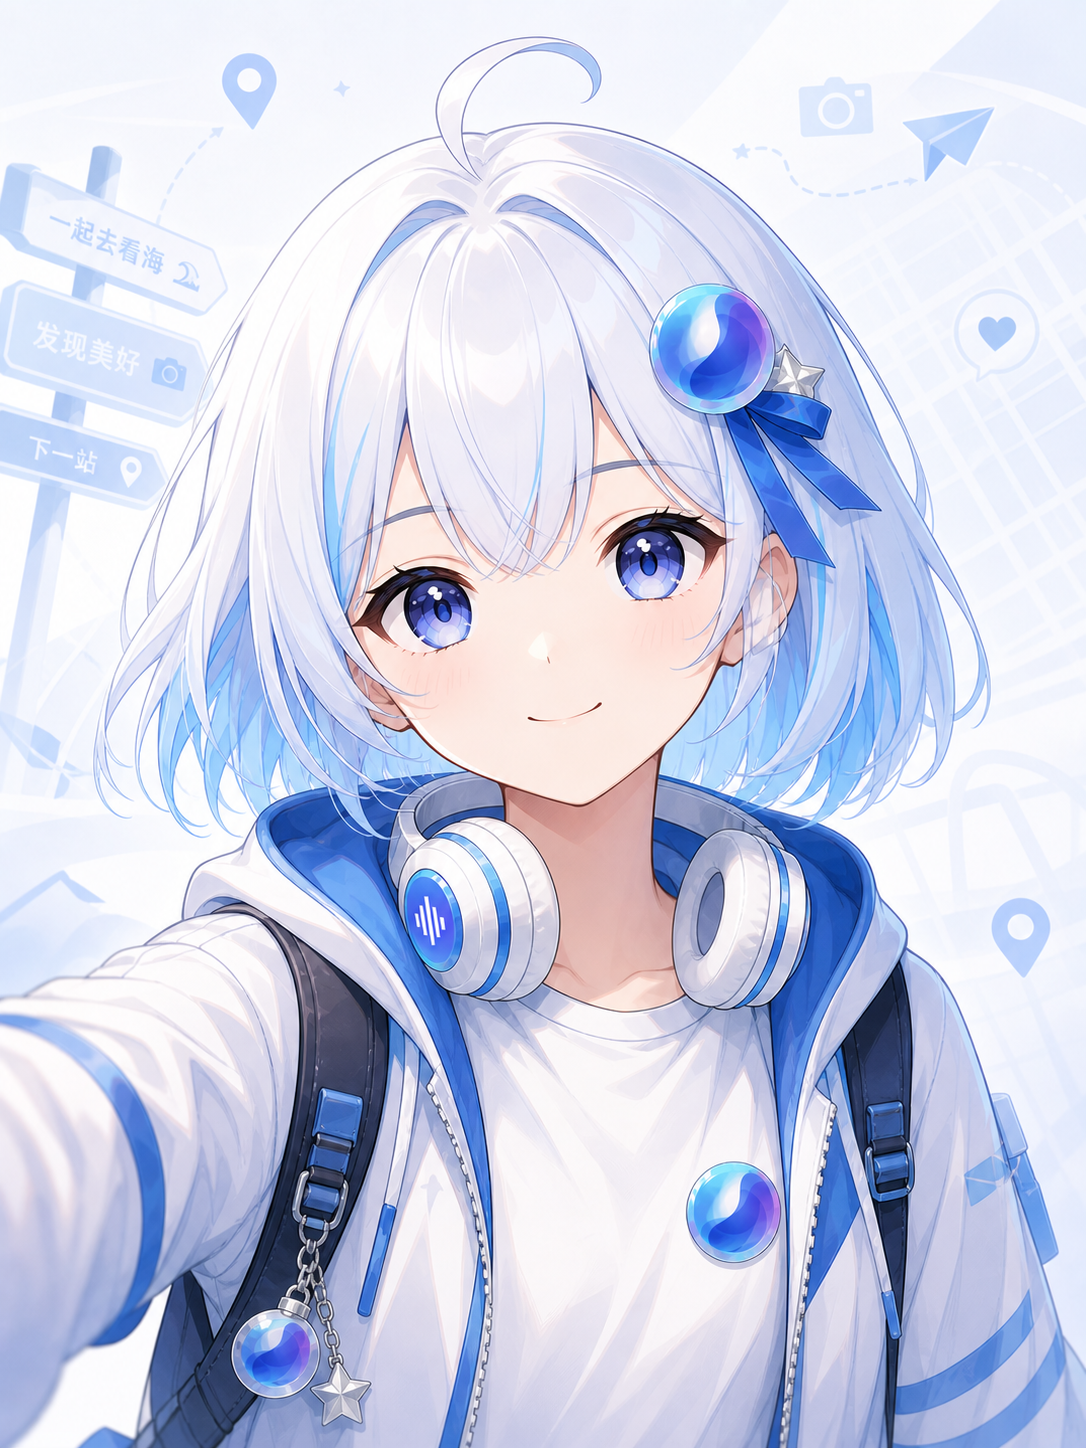
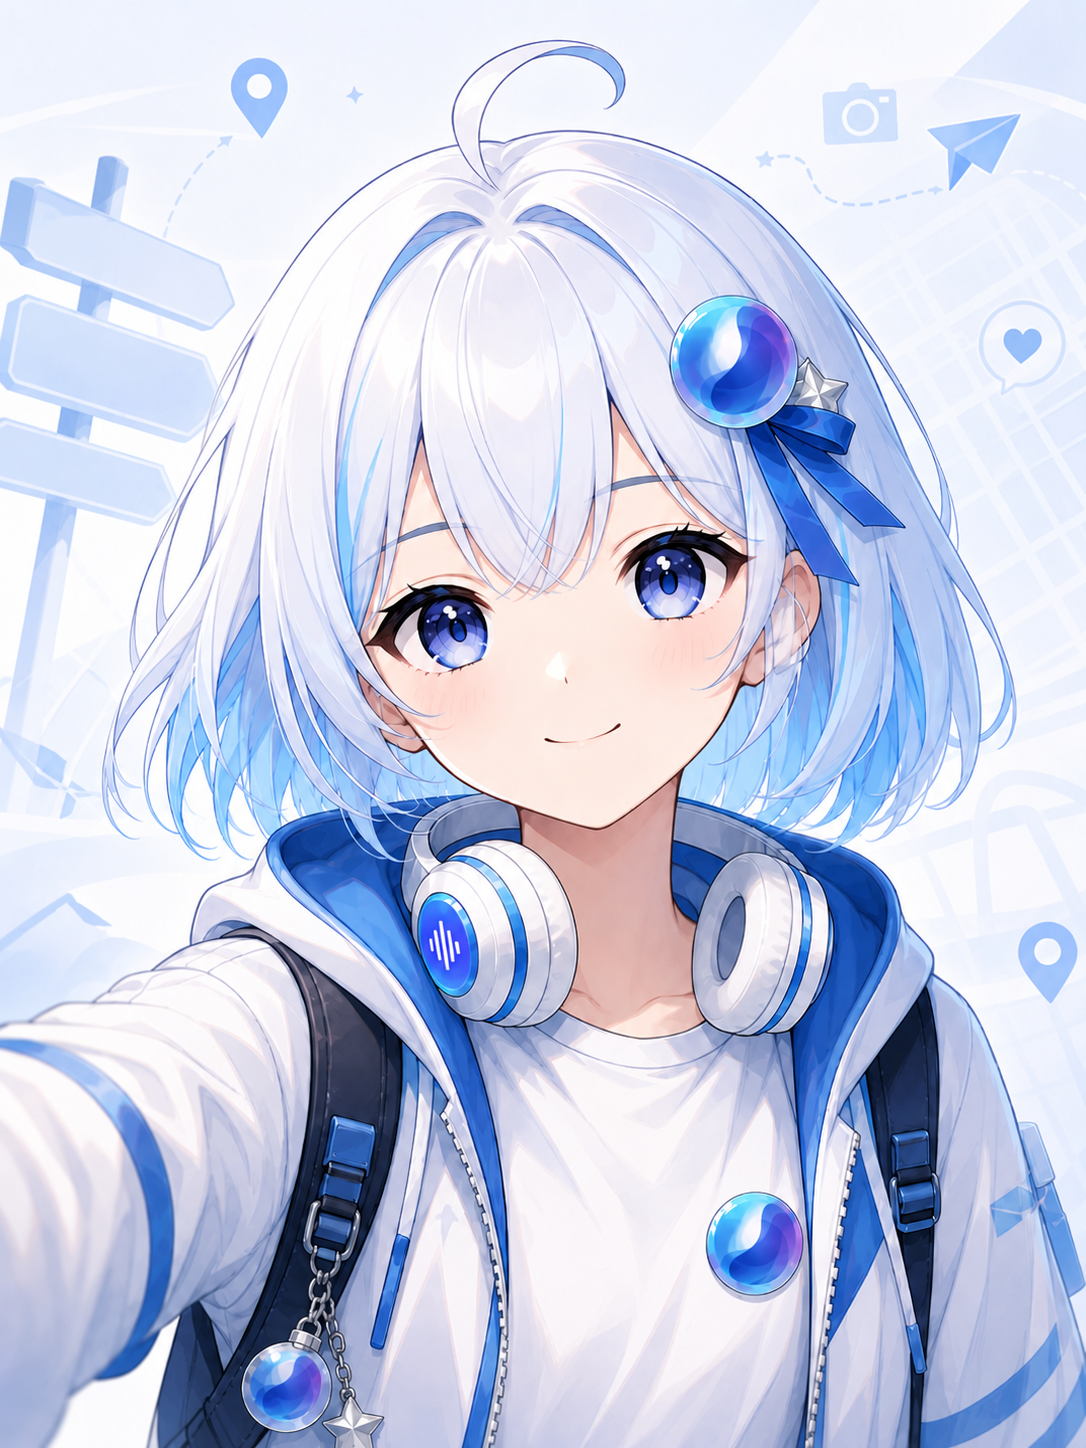
fix home navigation touch targets

diff --git a/apps/mobile/lib/features/home/home_page.dart b/apps/mobile/lib/features/home/home_page.dart
@@ -142,6 +142,7 @@ class _HomePageState extends State<HomePage>
     await showModalBottomSheet<void>(
       context: context,
       isScrollControlled: true,
+      useRootNavigator: true,
       useSafeArea: true,
       backgroundColor: Colors.transparent,
       barrierColor: const Color(0xFF06224E).withOpacity(0.28),
@@ -208,7 +209,7 @@ class _HomePageState extends State<HomePage>
     setState(() {
       _panelHeightRatio = (_panelHeightRatio - delta / viewportHeight).clamp(
         0.16,
-        0.78,
+        0.72,
       );
     });
   }
@@ -251,10 +252,15 @@ class _HomePageState extends State<HomePage>
             final actionsTop = topSafe + 36;
             final tripTop = topSafe + 82;
             final purePanelTop = topSafe + 128;
+            final statusDrawerTop = tripTop + 18;
+            final companionPanelTopLimit = statusDrawerTop + 140;
             final minPanelHeight = compact ? 166.0 : 178.0;
             final maxPanelHeight = math.max(
               minPanelHeight,
-              h - purePanelTop - 10 - keyboardInset,
+              h -
+                  (_isPureMode ? purePanelTop : companionPanelTopLimit) -
+                  10 -
+                  keyboardInset,
             );
             final ratio = _panelHeightRatio;
             final panelHeight = (h * ratio)
@@ -263,8 +269,8 @@ class _HomePageState extends State<HomePage>
             final effectivePanelHeight = keyboardVisible
                 ? math.min(panelHeight, compact ? 230.0 : 240.0)
                 : panelHeight;
-            final avatarHeight = h * (compact ? 0.52 : 0.60);
-            final avatarBottom = effectivePanelHeight * (compact ? 0.40 : 0.46);
+            final avatarHeight = h * (compact ? 0.54 : 0.62);
+            final avatarBottom = compact ? 46.0 : 58.0;
 
             final content = Stack(
               children: [
@@ -296,39 +302,6 @@ class _HomePageState extends State<HomePage>
                       opacity: _isPureMode ? 0.10 : 0,
                       child: Container(color: Colors.white),
                     ),
-                  ),
-                ),
-
-                // ── 顶部主操作：模式、消息、历史 ──
-                Positioned(
-                  top: actionsTop,
-                  left: controlsLeft,
-                  right: sidePadding,
-                  child: Row(
-                    children: [
-                      _PureModeButton(
-                        isPureMode: _isPureMode,
-                        onTap: _togglePureMode,
-                        compact: compact,
-                        width: controlWidth,
-                      ),
-                      const Spacer(),
-                      GestureDetector(
-                        onTap: () => context.push('/reminder'),
-                        child: const _TopIconPill(
-                          icon: Icons.notifications_none_rounded,
-                          label: '消息',
-                        ),
-                      ),
-                      const SizedBox(width: 8),
-                      GestureDetector(
-                        onTap: _showChatHistorySheet,
-                        child: const _TopIconPill(
-                          icon: Icons.history_rounded,
-                          label: '聊天历史',
-                        ),
-                      ),
-                    ],
                   ),
                 ),
 
@@ -409,7 +382,7 @@ class _HomePageState extends State<HomePage>
 
                 // ── 右侧蓝小心状态抽屉 ──
                 Positioned(
-                  top: tripTop + 18,
+                  top: statusDrawerTop,
                   right: 0,
                   child: _ModeExitBubble(
                     hidden: _isPureMode,
@@ -447,6 +420,35 @@ class _HomePageState extends State<HomePage>
                     onOpenTrip: () => context.go('/trip'),
                     onOpenMemory: () => context.go('/memory'),
                     onOpenReview: () => context.go('/review'),
+                  ),
+                ),
+
+                // ── 顶部主操作：模式、消息、历史。放在最后，保证触控优先级最高。 ──
+                Positioned(
+                  top: actionsTop,
+                  left: controlsLeft,
+                  right: sidePadding,
+                  child: Row(
+                    children: [
+                      _PureModeButton(
+                        isPureMode: _isPureMode,
+                        onTap: _togglePureMode,
+                        compact: compact,
+                        width: controlWidth,
+                      ),
+                      const Spacer(),
+                      _TopIconPill(
+                        icon: Icons.notifications_none_rounded,
+                        label: '消息',
+                        onTap: () => context.push('/reminder'),
+                      ),
+                      const SizedBox(width: 8),
+                      _TopIconPill(
+                        icon: Icons.history_rounded,
+                        label: '聊天历史',
+                        onTap: _showChatHistorySheet,
+                      ),
+                    ],
                   ),
                 ),
               ],
@@ -530,10 +532,15 @@ class _PureModeButton extends StatelessWidget {
 }
 
 class _TopIconPill extends StatelessWidget {
-  const _TopIconPill({required this.icon, required this.label});
+  const _TopIconPill({
+    required this.icon,
+    required this.label,
+    required this.onTap,
+  });
 
   final IconData icon;
   final String label;
+  final VoidCallback onTap;
 
   @override
   Widget build(BuildContext context) {
@@ -542,11 +549,21 @@ class _TopIconPill extends StatelessWidget {
       child: Semantics(
         button: true,
         label: label,
-        child: GlassBox(
-          width: 44,
-          borderRadius: BorderRadius.circular(22),
-          padding: const EdgeInsets.symmetric(vertical: 11),
-          child: Icon(icon, color: Colors.white, size: 20),
+        child: GestureDetector(
+          onTap: onTap,
+          behavior: HitTestBehavior.opaque,
+          child: SizedBox(
+            width: 52,
+            height: 52,
+            child: Center(
+              child: GlassBox(
+                width: 44,
+                borderRadius: BorderRadius.circular(22),
+                padding: const EdgeInsets.symmetric(vertical: 11),
+                child: Icon(icon, color: Colors.white, size: 20),
+              ),
+            ),
+          ),
         ),
       ),
     );
@@ -784,20 +801,26 @@ class _StatusDrawer extends StatelessWidget {
       return GestureDetector(
         onTap: onToggle,
         behavior: HitTestBehavior.opaque,
-        child: GlassBox(
-          width: 20,
-          height: 54,
-          borderRadius: const BorderRadius.horizontal(
-            left: Radius.circular(16),
-          ),
-          opacity: 0.22,
-          borderColor: Colors.white.withOpacity(0.70),
-          padding: EdgeInsets.zero,
-          child: const Center(
-            child: Icon(
-              Icons.keyboard_arrow_left_rounded,
-              color: Color(0xFF215ECA),
-              size: 18,
+        child: SizedBox(
+          width: 124,
+          child: GlassBox(
+            height: 54,
+            borderRadius: const BorderRadius.horizontal(
+              left: Radius.circular(24),
+            ),
+            opacity: 0.22,
+            borderColor: Colors.white.withOpacity(0.70),
+            padding: EdgeInsets.zero,
+            child: const Align(
+              alignment: Alignment.centerLeft,
+              child: Padding(
+                padding: EdgeInsets.only(left: 3),
+                child: Icon(
+                  Icons.keyboard_arrow_left_rounded,
+                  color: Color(0xFF215ECA),
+                  size: 19,
+                ),
+              ),
             ),
           ),
         ),

diff --git a/apps/mobile/lib/core/router/app_router.dart b/apps/mobile/lib/core/router/app_router.dart
@@ -124,7 +124,7 @@ class _ScaffoldWithNavState extends State<ScaffoldWithNav> {
   @override
   Widget build(BuildContext context) {
     final metrics = context.responsive;
-    final navHeight = _collapsed ? 28.0 : metrics.bottomNavHeight;
+    final navHeight = _collapsed ? 36.0 : metrics.bottomNavHeight;
 
     return Scaffold(
       backgroundColor: Colors.transparent,
@@ -138,8 +138,8 @@ class _ScaffoldWithNavState extends State<ScaffoldWithNav> {
         decoration: BoxDecoration(
           gradient: LinearGradient(
             colors: [
-              Colors.white.withOpacity(_collapsed ? 0.20 : 0.72),
-              const Color(0xFFDCEEFF).withOpacity(_collapsed ? 0.36 : 0.85),
+              Colors.white.withOpacity(0.72),
+              const Color(0xFFDCEEFF).withOpacity(0.85),
             ],
             begin: Alignment.topCenter,
             end: Alignment.bottomCenter,
@@ -245,18 +245,20 @@ class _CollapsedNavBar extends StatelessWidget {
     return Center(
       child: Container(
         width: double.infinity,
-        height: 22,
+        height: 34,
         decoration: BoxDecoration(
           borderRadius: BorderRadius.circular(0),
           gradient: LinearGradient(
             colors: [
-              Colors.white.withOpacity(0.24),
-              const Color(0xFFDCEEFF).withOpacity(0.34),
+              Colors.white.withOpacity(0.72),
+              const Color(0xFFDCEEFF).withOpacity(0.85),
             ],
             begin: Alignment.topCenter,
             end: Alignment.bottomCenter,
           ),
-          border: Border.all(color: Colors.white.withOpacity(0.35), width: 0.8),
+          border: Border(
+            top: BorderSide(color: Colors.white.withOpacity(0.45), width: 0.8),
+          ),
         ),
         child: Center(
           child: _NavChevronButton(
